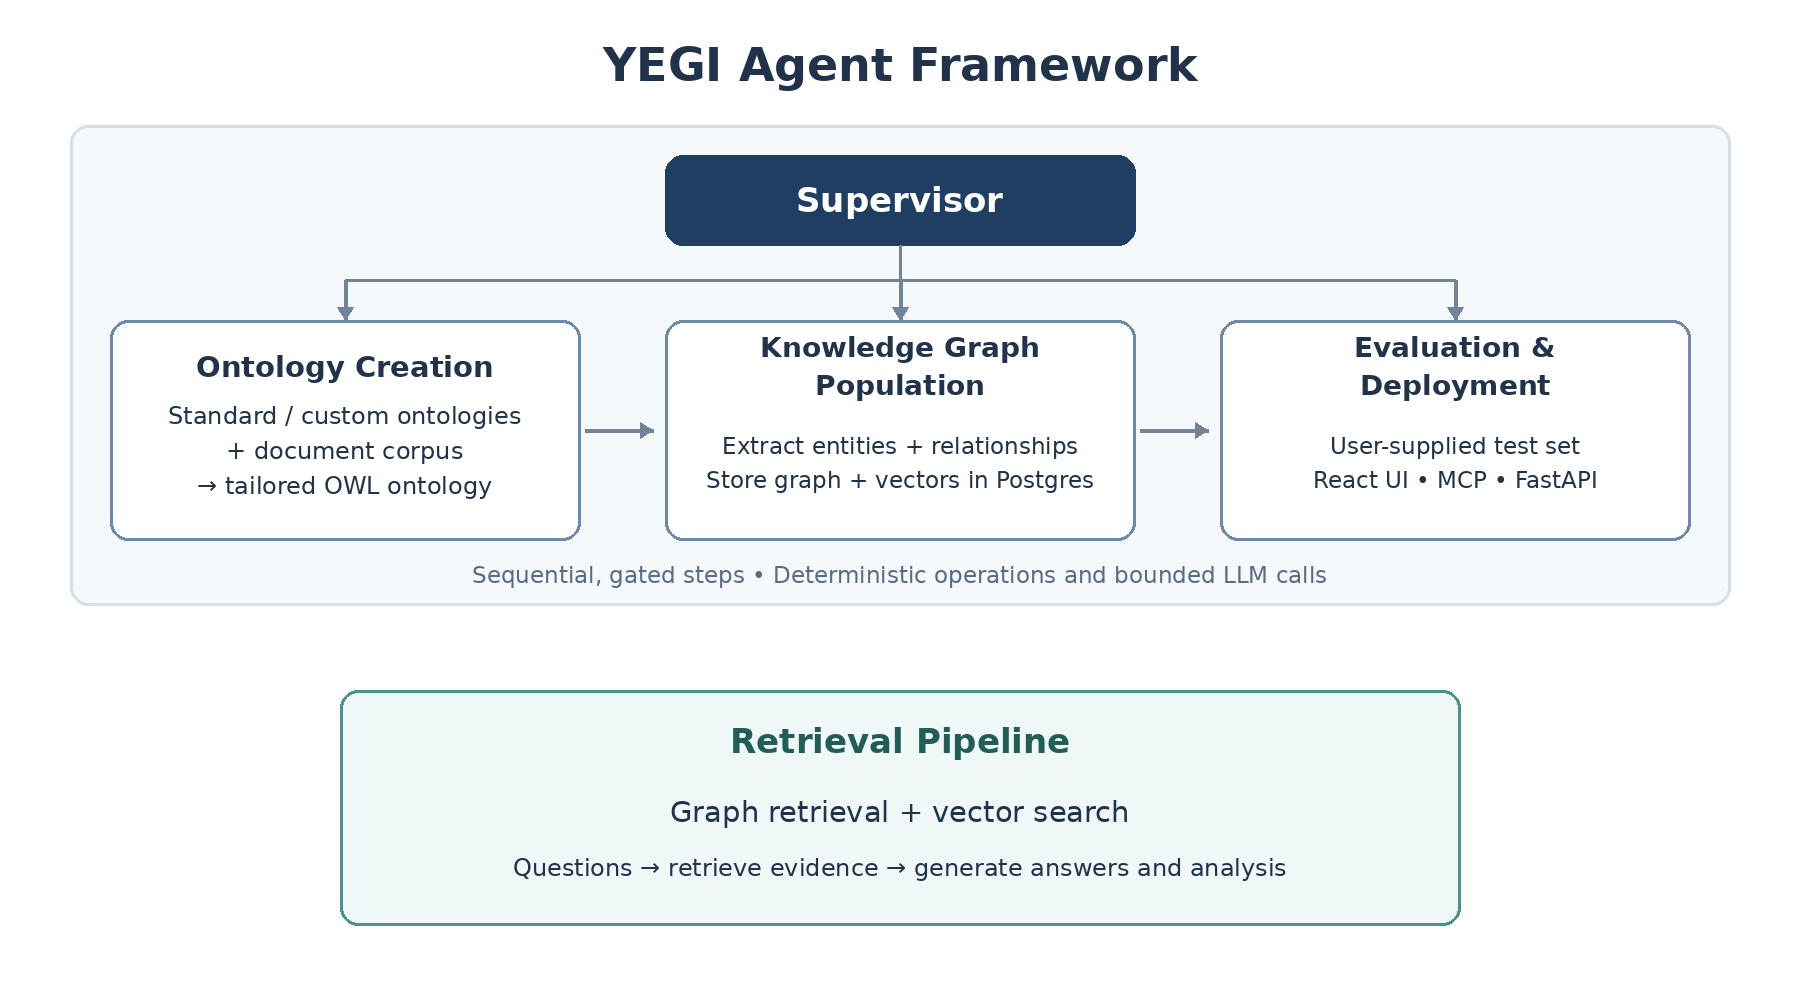
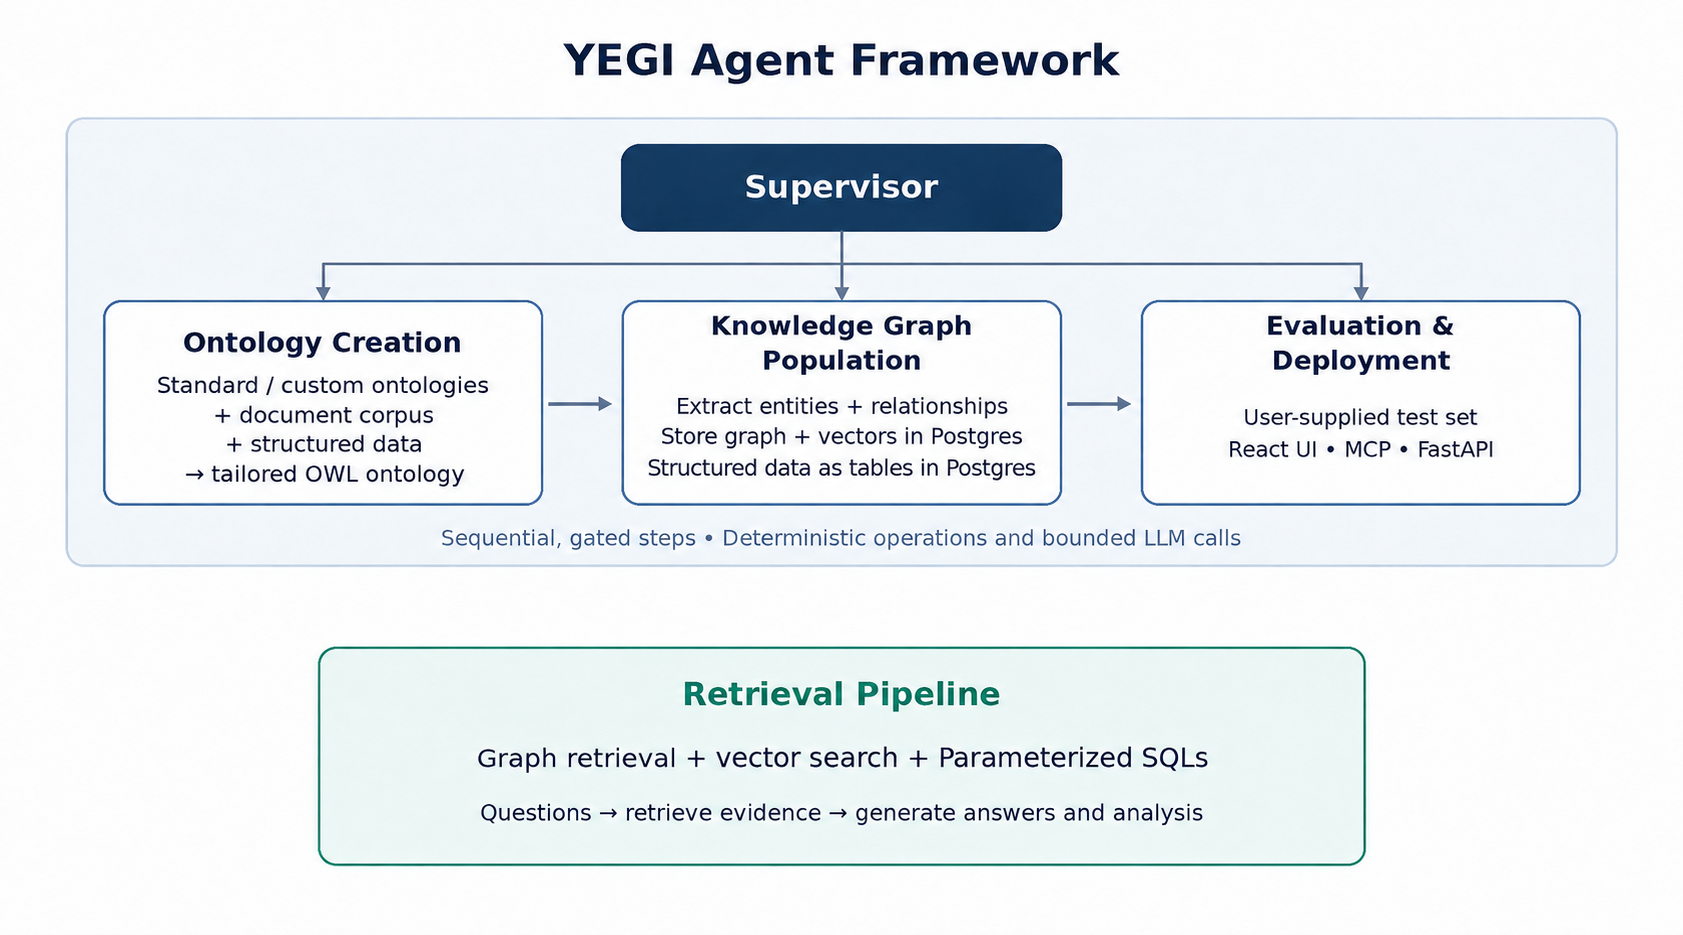
fix(structured): a lookup in a retry is not broadening; updated framework diagram
- retrieval_step.lookup_calls: a retry call whose rows feed a later call of the
  same batch ({"from_call": k}) skips the "never broaden the question" check
  (recorded as lookup: true). It only supplies a value; the call that answers
  is still checked. Previously the identifier guard asked for an id lookup and
  the broadening check refused it, so the answer call had nothing to read.
- Parameters taken from an earlier call are judged as written, not per
  fan-out sub-call (each sub-call holds one looked-up value, never the whole
  requested list).
- images/YEGI_Agent_Framework.png: updated diagram.

diff --git a/backend/app/services/structured/retrieval_step.py b/backend/app/services/structured/retrieval_step.py
@@ -943,6 +943,19 @@ def _grouped_columns(item: dict) -> set[str]:
     return {str(g.get("column") if isinstance(g, dict) else g).split(".")[-1] for g in grp if g}
 
 
+def lookup_calls(batch: list[dict]) -> set[int]:
+    """Numbers (1-based) of the calls in ``batch`` whose results a LATER call
+    of the same batch takes a parameter from (``{"from_call": k, ...}``)."""
+    out: set[int] = set()
+    for n, call in enumerate(batch, start=1):
+        params = call.get("params") if isinstance(call.get("params"), dict) else {}
+        for v in params.values():
+            if isinstance(v, dict) and "from_call" in v:
+                ks = v["from_call"] if isinstance(v["from_call"], list) else [v["from_call"]]
+                out |= {k for k in ks if isinstance(k, int) and 1 <= k < n}
+    return out
+
+
 def broadens(call: dict, item: dict | None, keep: dict[str, Any], *,
              grouping_keeps: bool = False) -> str | None:
     """Why a retry call would change or drop a value the user asked for
@@ -1736,6 +1749,7 @@ async def structured_evidence(
 
     async def _run_calls(batch: list[dict], *, retry: bool) -> None:
         done: dict[int, list[SqlResult]] = {}       # call number -> its results (chaining)
+        feeders = lookup_calls(batch)
         for n, call in enumerate(batch, start=1):
             concrete, ref_err = expand_refs(call, done)
             if ref_err:
@@ -1747,12 +1761,27 @@ async def structured_evidence(
             for sub in concrete:
                 sub_call = {k: v for k, v in sub.items() if not k.startswith("_")}
                 why = None
-                if retry:
+                rec_origin = None
+                if retry and n in feeders:
+                    # a LOOKUP: its rows only supply a value (an id) to a later
+                    # call, which is checked against the question's values
+                    # itself. It need not filter the question's other values
+                    # nor replace a failed call -- refusing it blocked the
+                    # very id lookup the identifier guard asks for.
+                    rec_origin, _why = _origin(call)
+                elif retry:
                     origin, why = _origin(call)
                     if origin is not None:
                         rec_origin = origin
                         failed = failures[origin - 1]
-                        why = broadens(sub_call, _item_of(sub_call), failed.get("keep") or {},
+                        # judge parameters taken from an earlier call as written
+                        # ({"from_call": k}): after fan-out each sub-call holds ONE
+                        # of the looked-up values, never the whole requested list
+                        as_written = {**sub_call, "params": {
+                            **(sub_call.get("params") or {}),
+                            **{k: v for k, v in (call.get("params") or {}).items()
+                               if isinstance(v, dict) and "from_call" in v}}}
+                        why = broadens(as_written, _item_of(sub_call), failed.get("keep") or {},
                                        grouping_keeps=sub_call.get("query_id") in (
                                            failed.get("total_alternatives") or []))
                 if why:
@@ -1763,8 +1792,10 @@ async def structured_evidence(
                                                    guard=_guard, prevalidate=_prevalidate, versions=versions)
                 if retry:
                     rec["retry"] = True
-                    if why is None:
+                    if why is None and rec_origin is not None:
                         rec["retry_of"] = rec_origin
+                    if n in feeders:
+                        rec["lookup"] = True
                 if sub.get("_from_calls"):
                     rec["from_calls"] = sub["_from_calls"]
                     if sub.get("_fanout_cut"):

diff --git a/backend/tests/unit/test_structured_total_scope.py b/backend/tests/unit/test_structured_total_scope.py
@@ -237,3 +237,59 @@ def test_open_dimensions_a_requested_list_pins_its_dimension():
     # an exclusion does not pin a dimension
     desc2 = _desc(["reporteriso", "partnercode"], params, fixed=[{"column": "partnercode", "op": "!=", "value": 0}])
     assert rs.open_dimensions({}, desc2, {"iso": "IND"}) == {"partnercode"}
+
+
+# --- a lookup in a retry is not "broadening" (2026-11-27, sc80 q023/q024) ---
+# The identifier guard tells the selector to find an id with one call and pass
+# it to the next ({"from_call": k}). The broadening check then refused that
+# lookup because the lookup query cannot filter the question's other values
+# (commodity, year), and the answer call had nothing to take its value from.
+
+def test_lookup_calls_are_the_ones_a_later_call_takes_values_from():
+    batch = [{"query_id": "a"}, {"query_id": "b"},
+             {"query_id": "c", "params": {"x": {"from_call": 1, "column": "k"},
+                                          "y": {"from_call": [2], "column": "k"}}},
+             {"query_id": "d", "params": {"z": {"from_call": 4, "column": "k"}}}]   # not an EARLIER call
+    assert rs.lookup_calls(batch) == {1, 2}
+
+
+async def test_a_retry_lookup_runs_and_feeds_the_answer_call(harness, monkeypatch):
+    _meta, ran = harness
+
+    async def fake_run(sql, params, allowed, *, max_rows=50, timeout_ms=5000, declared_params=None):
+        ran.append(sql)
+        if "SUM(" in sql.upper():
+            return SqlResult(sql=sql, params=dict(params or {}), columns=["reporterdesc", "total_value"],
+                             rows=[["India", "7709020032.686"], ["Thailand", "2561055865.113"]], row_count=2)
+        return SqlResult(sql=sql, params=dict(params or {}), columns=["reporterdesc", "partnerdesc", "flowdesc"],
+                         rows=[["India", "World", "Import"], ["Thailand", "World", "Import"]], row_count=2)
+
+    monkeypatch.setattr(rs, "run_sql", fake_run)
+    lookup = {"table": "trade_flows", "query_id": "find_flows",
+              "params": {"reporter": ["India", "Thailand"], "partner": "World"}, "retry_of": 1}
+    answer = {"table": "trade_flows", "query_id": "trade_value_by_year", "retry_of": 1,
+              "params": {"reporter": {"from_call": 1, "column": "reporterdesc"},
+                         "flow": "Import", "commodity": "Fertilizers"}}
+    router = FakeRouter({"table_query_select": [{"needed": True, "calls": [ORIGINAL]},
+                                                {"needed": True, "calls": [lookup, answer]}]})
+    ev, plan = await _go(router)
+
+    retry = [c for c in plan["calls"] if c.get("retry")]
+    assert retry[0]["query_id"] == "find_flows" and retry[0].get("lookup")
+    assert not retry[0].get("selection_error") and "retry refused" not in str(retry[0].get("error"))
+    answers = [c for c in retry if c["query_id"] == "trade_value_by_year"]
+    assert answers and not any("retry refused" in str(c.get("error")) for c in answers)
+    assert any(e["kind"] == "sql_result" and e["query_id"] == "trade_value_by_year" for e in ev)
+
+
+async def test_a_retry_that_is_not_a_lookup_is_still_checked(harness):
+    _meta, _ran = harness
+    # the same query, but nothing takes values from it: it would answer the
+    # question without its commodity and year, so it is refused as before
+    lone = {"table": "trade_flows", "query_id": "find_flows",
+            "params": {"reporter": ["India", "Thailand"], "partner": "World"}, "retry_of": 1}
+    router = FakeRouter({"table_query_select": [{"needed": True, "calls": [ORIGINAL]},
+                                                {"needed": True, "calls": [lone]}]})
+    _ev, plan = await _go(router)
+    retry = [c for c in plan["calls"] if c.get("retry")]
+    assert retry and "retry refused" in retry[0]["error"] and not retry[0].get("lookup")
